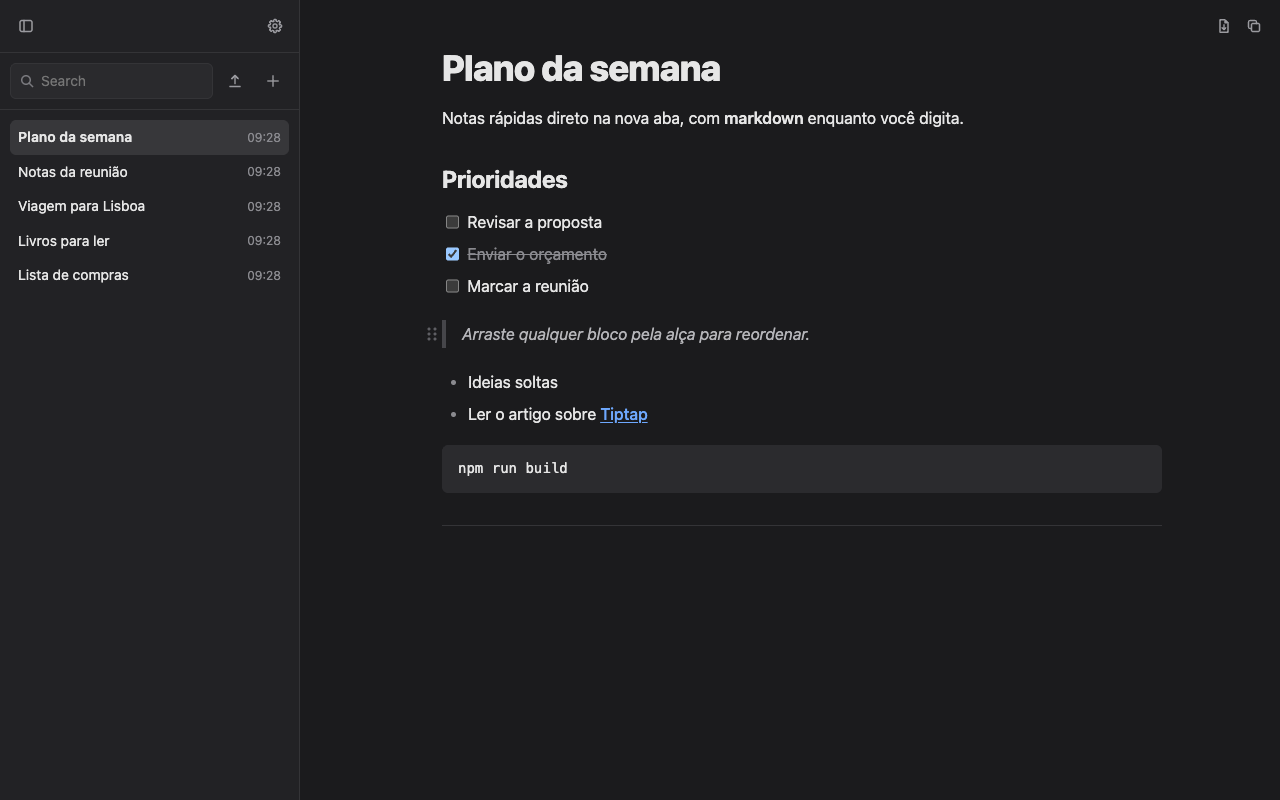
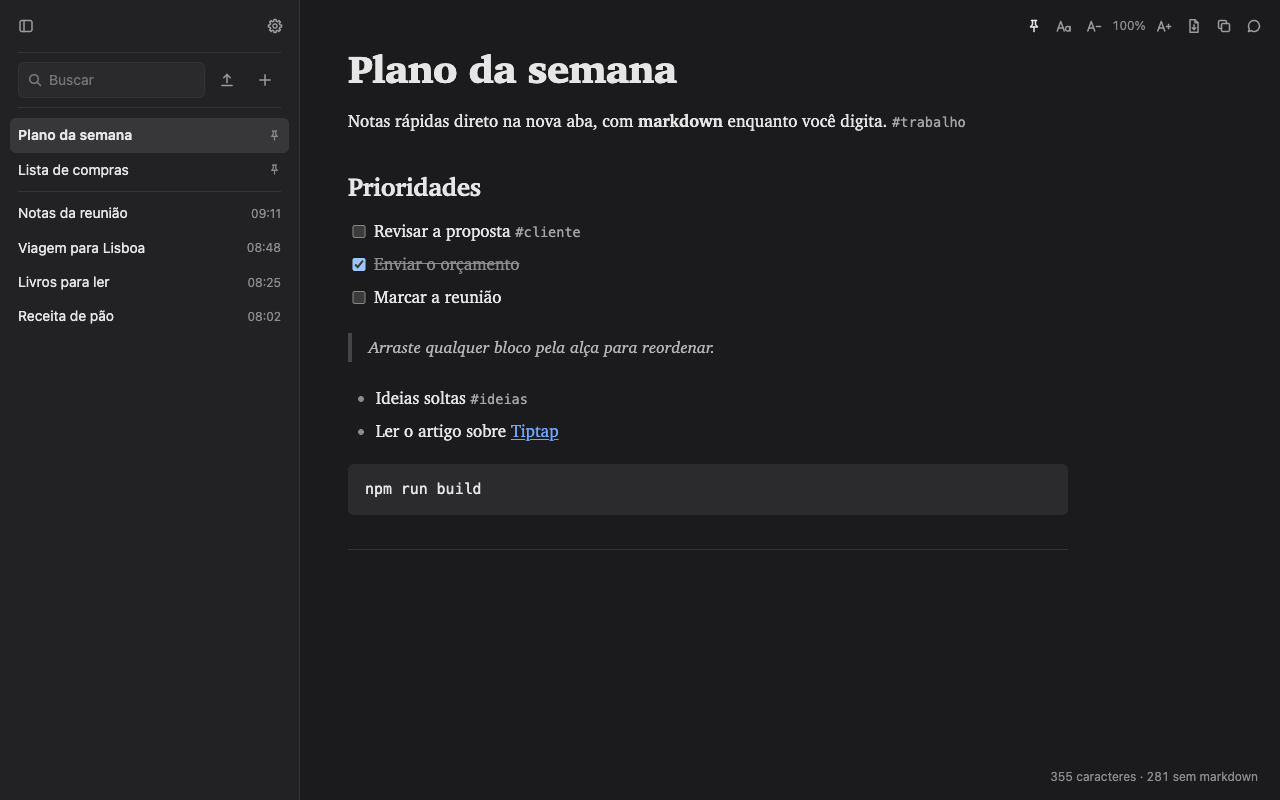
Store listing and screenshots for 1.1.0; 1.0.0 is live
Descriptions mention pinning, tags, copy/import, per-note font and text size
and the Portuguese interface. Screenshots regenerated from the real extension,
with the pt-BR ones in Portuguese.

diff --git a/STORE.md b/STORE.md
@@ -4,8 +4,8 @@ Everything the Chrome Web Store developer dashboard asks for, ready to copy. The
 
 ## Status
 
-- **1.0.0:** submitted, in review.
-- **1.1.0:** next update, ready to upload once 1.0.0 is live (what's in it: CHANGELOG.md).
+- **1.0.0:** live on the Chrome Web Store.
+- **1.1.0:** ready to upload as an update (what's in it: CHANGELOG.md); the listing texts and screenshots below are already for 1.1.0.
 
 ## Package
 
@@ -26,19 +26,25 @@ Everything the Chrome Web Store developer dashboard asks for, ready to copy. The
 Draftab turns every new tab into a clean notepad. Open a tab and start typing: the cursor is already there.
 
 WRITE IN MARKDOWN, SEE IT FORMATTED
-Type # for a heading, - for a list, [ ] for a checklist, > for a quote, ``` for code, --- for a divider, **bold**, *italic*, `code` and [links](https://example.com). Everything becomes formatting as you type.
+Type # for a heading, - for a list, [ ] for a checklist, > for a quote, ``` for code, --- for a divider, **bold**, *italic*, ~~strikethrough~~, ++underline++, `code` and [links](https://example.com). Everything becomes formatting as you type.
 
 DRAG ANY BLOCK TO REORDER
 Hover a block and drag its handle. The other blocks slide out of the way so you can see where it will land. Move list items, whole lists, and take items in and out of lists. Double-click a handle to copy that block.
 
 ALL YOUR NOTES, ONE CLICK AWAY
-A collapsible sidebar lists your notes — by last edit, title or creation date — with instant search across titles and content. Rename, delete, and keep several tabs open at once: what you write in one shows up in the others. Export any note as a Markdown file, or copy it whole with one click.
+A sidebar lists your notes — by last edit, title or creation date — with instant search across titles and content. Pin the notes you use most to the top. The sidebar steps aside while you type and comes back when you move the mouse. Rename, delete, and keep several tabs open at once: what you write in one shows up in the others.
+
+TAGS
+Write #tags anywhere in a note. Cmd/Ctrl+click a tag to find every note that has it, or type # in the search to pick from the tags you use.
+
+COPY, EXPORT, IMPORT
+Export any note as a Markdown file, or copy it whole with one click — formatted, or ready to paste into WhatsApp. Turn a .md or .txt file into a new note. A counter shows the note's characters, with and without markdown.
 
 BACKUPS YOU CAN TRUST
 Export and import a JSON backup of all notes and settings (each note also comes in plain markdown). Turn on automatic backups — every minute, hour, day, week or month — saved to Downloads/draftab-backups/, only when something changed.
 
 YOUR LOOK
-Light, dark, or automatic theme that follows your system. Write in a sans-serif, serif or monospace font, with clean, comfortable typography.
+Light, dark, or automatic theme that follows your system. Each note keeps its own font — sans-serif, serif or monospace — and its own text size, with clean, comfortable typography. The interface is in English or Portuguese.
 
 PRIVATE BY DESIGN
 Your notes are stored only in your browser, on your computer. Draftab has no account, no server, no analytics and no tracking. It never sends your data anywhere.
@@ -62,27 +68,31 @@ Tip: uninstalling the extension deletes its notes, so export a backup first.
 O Draftab transforma cada nova aba num bloco de notas limpo. Abra uma aba e comece a digitar: o cursor já está lá.
 
 ESCREVA EM MARKDOWN, VEJA FORMATADO
-Digite # para um título, - para uma lista, [ ] para um checklist, > para uma citação, ``` para código, --- para um divisor, **negrito**, *itálico*, `código` e [links](https://example.com). Tudo vira formatação enquanto você digita.
+Digite # para um título, - para uma lista, [ ] para um checklist, > para uma citação, ``` para código, --- para um divisor, **negrito**, *itálico*, ~~riscado~~, ++sublinhado++, `código` e [links](https://example.com). Tudo vira formatação enquanto você digita.
 
 ARRASTE QUALQUER BLOCO PARA REORDENAR
 Passe o mouse num bloco e arraste a alça. Os outros blocos abrem espaço para você ver onde ele vai cair. Mova itens de lista, listas inteiras e tire itens de listas ou coloque dentro delas. Dê dois cliques na alça para copiar aquele bloco.
 
 TODAS AS NOTAS A UM CLIQUE
-Uma barra lateral recolhível lista as notas — pela última edição, pelo título ou pela data de criação — com busca instantânea no título e no conteúdo. Renomeie, exclua e use várias abas ao mesmo tempo: o que você escreve numa aparece nas outras. Exporte qualquer nota como arquivo Markdown ou copie a nota inteira com um clique.
+Uma barra lateral lista as notas — pela última edição, pelo título ou pela data de criação — com busca instantânea no título e no conteúdo. Fixe no topo as notas que você mais usa. A barra sai da frente enquanto você digita e volta quando você mexe o mouse. Renomeie, exclua e use várias abas ao mesmo tempo: o que você escreve numa aparece nas outras.
+
+TAGS
+Escreva #tags em qualquer parte da nota. Cmd/Ctrl+clique numa tag para achar todas as notas que a têm, ou digite # na busca para escolher entre as tags que você usa.
+
+COPIE, EXPORTE, IMPORTE
+Exporte qualquer nota como arquivo Markdown ou copie a nota inteira com um clique — formatada ou pronta para colar no WhatsApp. Transforme um arquivo .md ou .txt numa nota nova. Um contador mostra os caracteres da nota, com e sem markdown.
 
 BACKUP CONFIÁVEL
 Exporte e importe um backup em JSON com todas as notas e configurações (cada nota vem também em markdown). Ligue o backup automático — a cada minuto, hora, dia, semana ou mês — salvo em Downloads/draftab-backups/, só quando algo mudou.
 
 DO SEU JEITO
-Tema claro, escuro ou automático, que segue o sistema. Escreva com fonte sem serifa, serifada ou monoespaçada, numa tipografia limpa e confortável.
+Tema claro, escuro ou automático, que segue o sistema. Cada nota guarda a sua fonte — sem serifa, serifada ou monoespaçada — e o seu tamanho de texto, numa tipografia limpa e confortável. A interface está em português ou inglês.
 
 PRIVADO DE VERDADE
 Suas notas ficam só no seu navegador, no seu computador. O Draftab não tem conta, servidor, estatísticas de uso nem rastreamento. Ele nunca envia seus dados para lugar nenhum.
 
 CÓDIGO ABERTO
 O Draftab é gratuito e open source, com licença MIT: https://github.com/ramonk2o/draftab
-
-A interface da extensão está em inglês.
 
 Dica: desinstalar a extensão apaga as notas, então exporte um backup antes.
 ```

diff --git a/FEATURES.md b/FEATURES.md
@@ -34,10 +34,3 @@ How a feature moves:
   - A synced folder the user picks (Dropbox, iCloud, Google Drive for desktop), read and written by the extension: no new permission, account or server; the simplest to build. Costs: Chrome asks for folder access again from time to time, it only works with the tab open, and it depends on one of those apps being installed.
   - Own server (Firebase, Supabase): accounts, monthly cost, maintenance and a new privacy policy; too heavy for Draftab.
   - The hard part in any option is conflicts: merge note by note (each note has an id and a last-modified date, so the most recent version of each note wins), and deleted notes leave a dated "deleted" mark so they don't come back when the other computer syncs.
-
-## Administrative
-
-### Publishing on the Chrome Web Store
-- **Status:** Approved — 1.0.0 submitted, in review; leaves this file once it's live on the store
-- **Description:** publish Draftab on the Chrome Web Store.
-- **Motivation:** not recorded (came from the SPEC.md "Out of scope" list).

diff --git a/CHANGELOG.md b/CHANGELOG.md
@@ -45,7 +45,7 @@ Ready to upload to the Chrome Web Store as an update.
 
 ## [1.0.0] — 2026-10-11
 
-First public version, submitted to the Chrome Web Store.
+First public version, published on the Chrome Web Store.
 
 ### Added
 - **New tab notepad**: every new tab opens a blank note with the cursor ready; blank notes are never saved.
